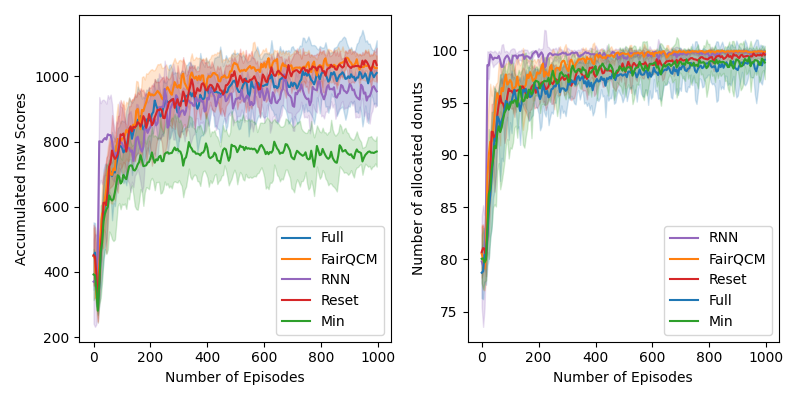
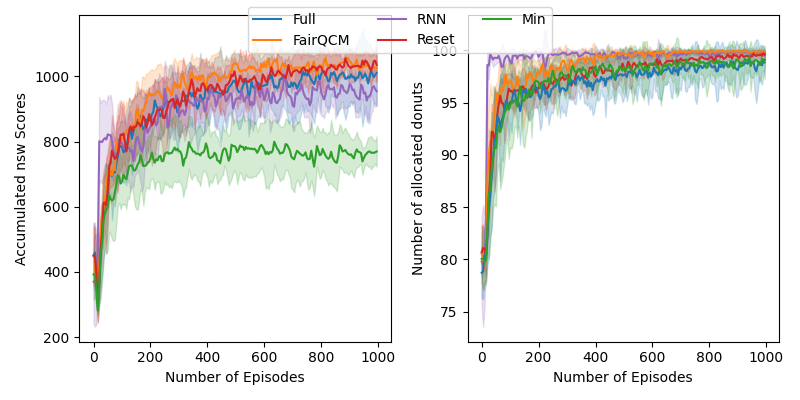
plot all

diff --git a/plot_all.py b/plot_all.py
@@ -1,0 +1,127 @@
+import numpy as np
+import os
+import matplotlib.pyplot as plt
+import argparse
+plt.rcParams['text.usetex'] = True  # 启用TeX渲染
+
+def plot_data_no_std(env, rt, ax, smooth, donuts=False):
+    directory = f"datasets/{env}/{rt}"
+    method_colors = {
+        'Full': '#1F77B4',  # blue
+        'FairQCM': '#FF7F0F',  # orange
+        'Min': '#2E9F2B',  # green
+        'Reset': '#D62628',  # red 
+        'RNN': '#9467BD'  # purple
+    }
+
+
+    for filename in os.listdir(directory):
+        if donuts and "donuts" not in filename or not donuts and "donuts" in filename:
+            continue
+
+        # Extract method name from filename
+        if "donuts" in filename:
+            method = filename.split('_donuts')[0]  # Strip out the suffix to get the method
+        else:
+            method = filename.split('.csv')[0]  # Strip out the extension to get the method
+
+        color = method_colors.get(method, 'gray')  # Use a default color if method not recognized
+
+        data_path = os.path.join(directory, filename)
+        data = np.genfromtxt(data_path, delimiter=",")
+        name = method   # Adjust label based on data type
+
+        # Smooth data
+        exps, vals = data.shape
+        data = (
+            data.reshape(exps, -1, smooth).mean(axis=2, keepdims=True)
+            # .repeat(smooth, axis=2)
+            .reshape(exps, -1)
+        )
+
+        xx = np.arange(0, vals, smooth)
+        ax.plot(xx, data.mean(axis=0), label=name, color=color, linewidth=4)
+        # ax.fill_between(
+        #     # np.arange(data.shape[1]),
+        #     xx,
+        #     data.mean(axis=0) - data.std(axis=0),
+        #     data.mean(axis=0) + data.std(axis=0),
+        #     color=color,
+        #     alpha=0.2,
+        # )
+
+def plot_data(env, rt, ax, smooth, donuts=False):
+    directory = f"datasets/{env}/{rt}"
+    method_colors = {
+        'Full': '#1F77B4',  # blue
+        'FairQCM': '#FF7F0F',  # orange
+        'Min': '#2E9F2B',  # green
+        'Reset': '#D62628',  # red 
+        'RNN': '#9467BD'  # purple
+    }
+
+
+    for filename in os.listdir(directory):
+        if donuts and "donuts" not in filename or not donuts and "donuts" in filename:
+            continue
+
+        # Extract method name from filename
+        if "donuts" in filename:
+            method = filename.split('_donuts')[0]  # Strip out the suffix to get the method
+        else:
+            method = filename.split('.csv')[0]  # Strip out the extension to get the method
+
+        color = method_colors.get(method, 'gray')  # Use a default color if method not recognized
+
+        data_path = os.path.join(directory, filename)
+        data = np.genfromtxt(data_path, delimiter=",")
+        name = method   # Adjust label based on data type
+
+        # Smooth data
+        exps, vals = data.shape
+        data = (
+            data.reshape(exps, -1, smooth).mean(axis=2, keepdims=True)
+            # .repeat(smooth, axis=2)
+            .reshape(exps, -1)
+        )
+
+        xx = np.arange(0, vals, smooth)
+        ax.plot(xx, data.mean(axis=0), label=name, color=color, linewidth=4)
+        ax.fill_between(
+            # np.arange(data.shape[1]),
+            xx,
+            data.mean(axis=0) - data.std(axis=0),
+            data.mean(axis=0) + data.std(axis=0),
+            color=color,
+            alpha=0.2,
+        )
+
+def create_combined_plot(env, smooth):
+    fig, axs = plt.subplots(2, 2, figsize=(14, 10))  # Adjust subplot layout size as needed
+    reward_types = ['egalitarian', 'gini']
+    for i, rt in enumerate(reward_types):
+        plot_data_no_std(env, rt, axs[i, 0], smooth, donuts=False)
+        axs[i, 0].set_ylabel(f"Accumulated {rt} Scores", fontsize=18)
+        axs[i, 0].set_xlabel("Number of Episodes", fontsize=18)
+        if i == 0:
+            plot_data_no_std(env, rt, axs[i, 1], smooth, donuts=True)
+        else:
+            plot_data(env, rt, axs[i, 1], smooth, donuts=True)
+        axs[i, 1].set_ylabel(f"Number of allocated donuts for {rt}", fontsize=18)
+        axs[i, 1].set_xlabel("Number of Episodes", fontsize=18)
+
+    handles, labels = axs[0, 0].get_legend_handles_labels()
+    # fig.legend(handles, labels, loc='upper center', ncol=5)
+    fig.legend(handles, labels, loc='upper center', ncol=5, fontsize='18')
+
+    plt.tight_layout(rect=[0, 0, 1, 0.95])
+    plt.savefig("all.png")
+    plt.close()  # Close the plot to free up memory
+
+if __name__ == "__main__":
+    parser = argparse.ArgumentParser()
+    parser.add_argument("--env", type=str, required=True)
+    parser.add_argument("--smooth", type=int, default=5)
+    args = parser.parse_args()
+
+    create_combined_plot(args.env, args.smooth)

diff --git a/plot.py b/plot.py
@@ -60,10 +60,13 @@ def create_plots(env, rt, smooth):
     # axs[1].set_title(f"{rt} Donuts Allocated")
 
     for ax in axs:
-        ax.legend()
+        # ax.legend()
         ax.set_xlabel("Number of Episodes")
         axs[0].set_ylabel(f"Accumulated {rt} Scores")
         axs[1].set_ylabel("Number of allocated donuts")
+    # 在图形外部添加统一的图例
+    handles, labels = axs[0].get_legend_handles_labels()
+    fig.legend(handles, labels, loc='upper center', ncol=3)
 
     output_path = os.path.join("donut", f"{rt}.png")
     if not os.path.exists("donut"):

diff --git a/dqn-donut.py b/dqn-donut.py
@@ -228,6 +228,7 @@ def run(num_people, max_ep_len, memory_capacity, args, seed):
             state = next_state
             memory = next_memory
 
+        # evaluation part
         if dqn.args.epsilon > 0.2:
             dqn.args.epsilon = dqn.args.epsilon * 0.999
         ep_reward = 0

diff --git a/envs/donut.py b/envs/donut.py
@@ -80,7 +80,6 @@ class Donut(gym.Env):
     # add 4 more reward functions
     def utilitarian_reward(self, obs):
         """Calculate the total sum of rewards across all agents."""
-        # print(np.array(obs).shape)
         return sum(obs)
 
     def rawlsian_reward(self, obs):
